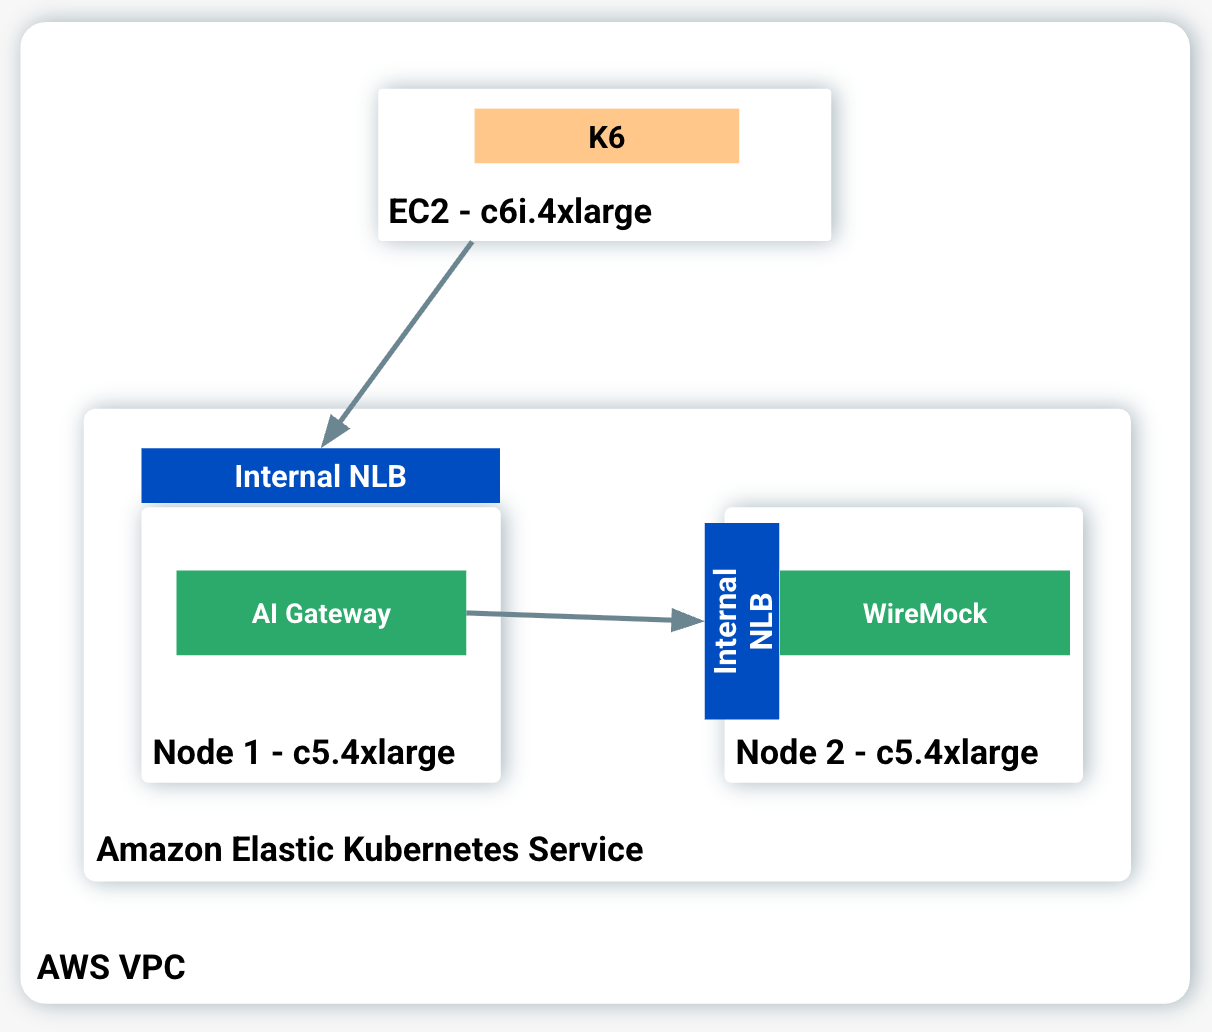
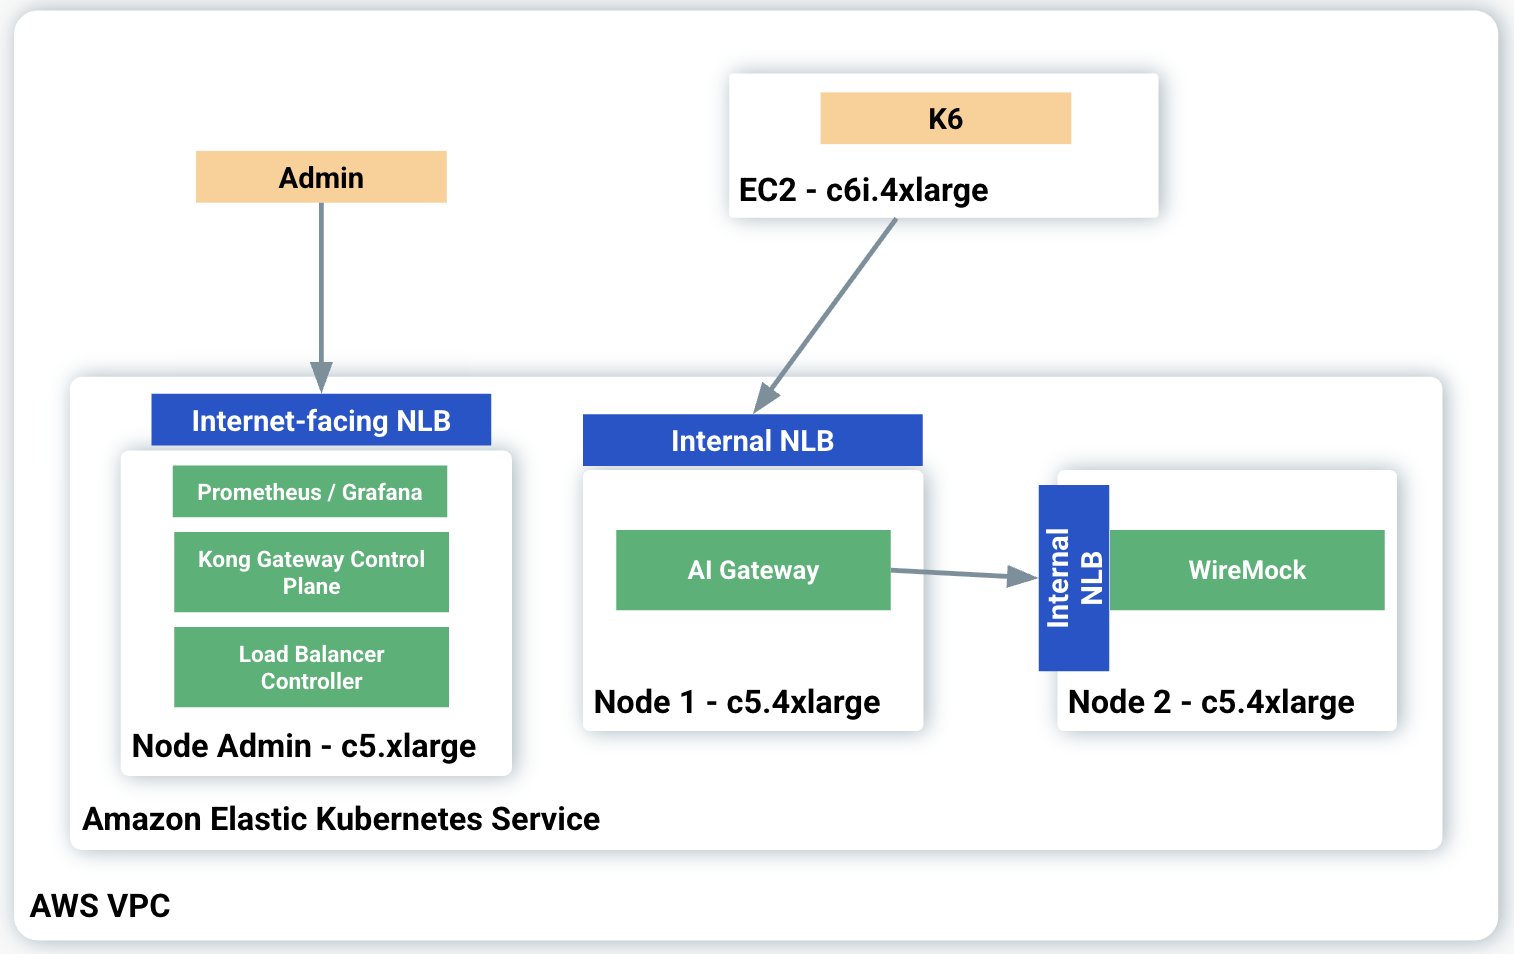
architecture

diff --git a/README.md b/README.md
@@ -4,7 +4,10 @@ The benchmark tests were executed in AWS. The server infrastructure ran on an Am
 
 The AI Gateways were exposed to the consumers through a Network Load Balancer (NLB) to protect them from external interference. Similarly, the mocking LLM was exposed with an NLB. In order to not compete for the same hardware (HW) resources, the AI Gateways and WireMock ran in their own EKS Nodes based on the c5.4xlarge instance type with 16 vCPUs and 32GiB of memory. All AI Gateway deployments had the resource configuration with an upper limit of 12 CPUs.
 
-Lastly, K6 played the load generator role, running on an EC2 instance deployed in the same VPC as the EKS Cluster. For all benchmark tests, K6 ran for 3 minutes always injecting the same throughput to all AI Gateways with 400 VUs (each VU representing a consumer) sending requests with 1000 prompt tokens.
+K6 played the load generator role, running on an EC2 instance deployed in the same VPC as the EKS Cluster. For all benchmark tests, K6 ran for 3 minutes always injecting the same throughput to all AI Gateways with 400 VUs (each VU representing a consumer) sending requests with 1000 prompt tokens.
+
+Lastly, another EKS Node was used to deploy tools and admin components like Prometheus/Grafana, the AWS Load Balancer Controller and Kong Gateway Enterprise Control Plane.
+
 
 
 
